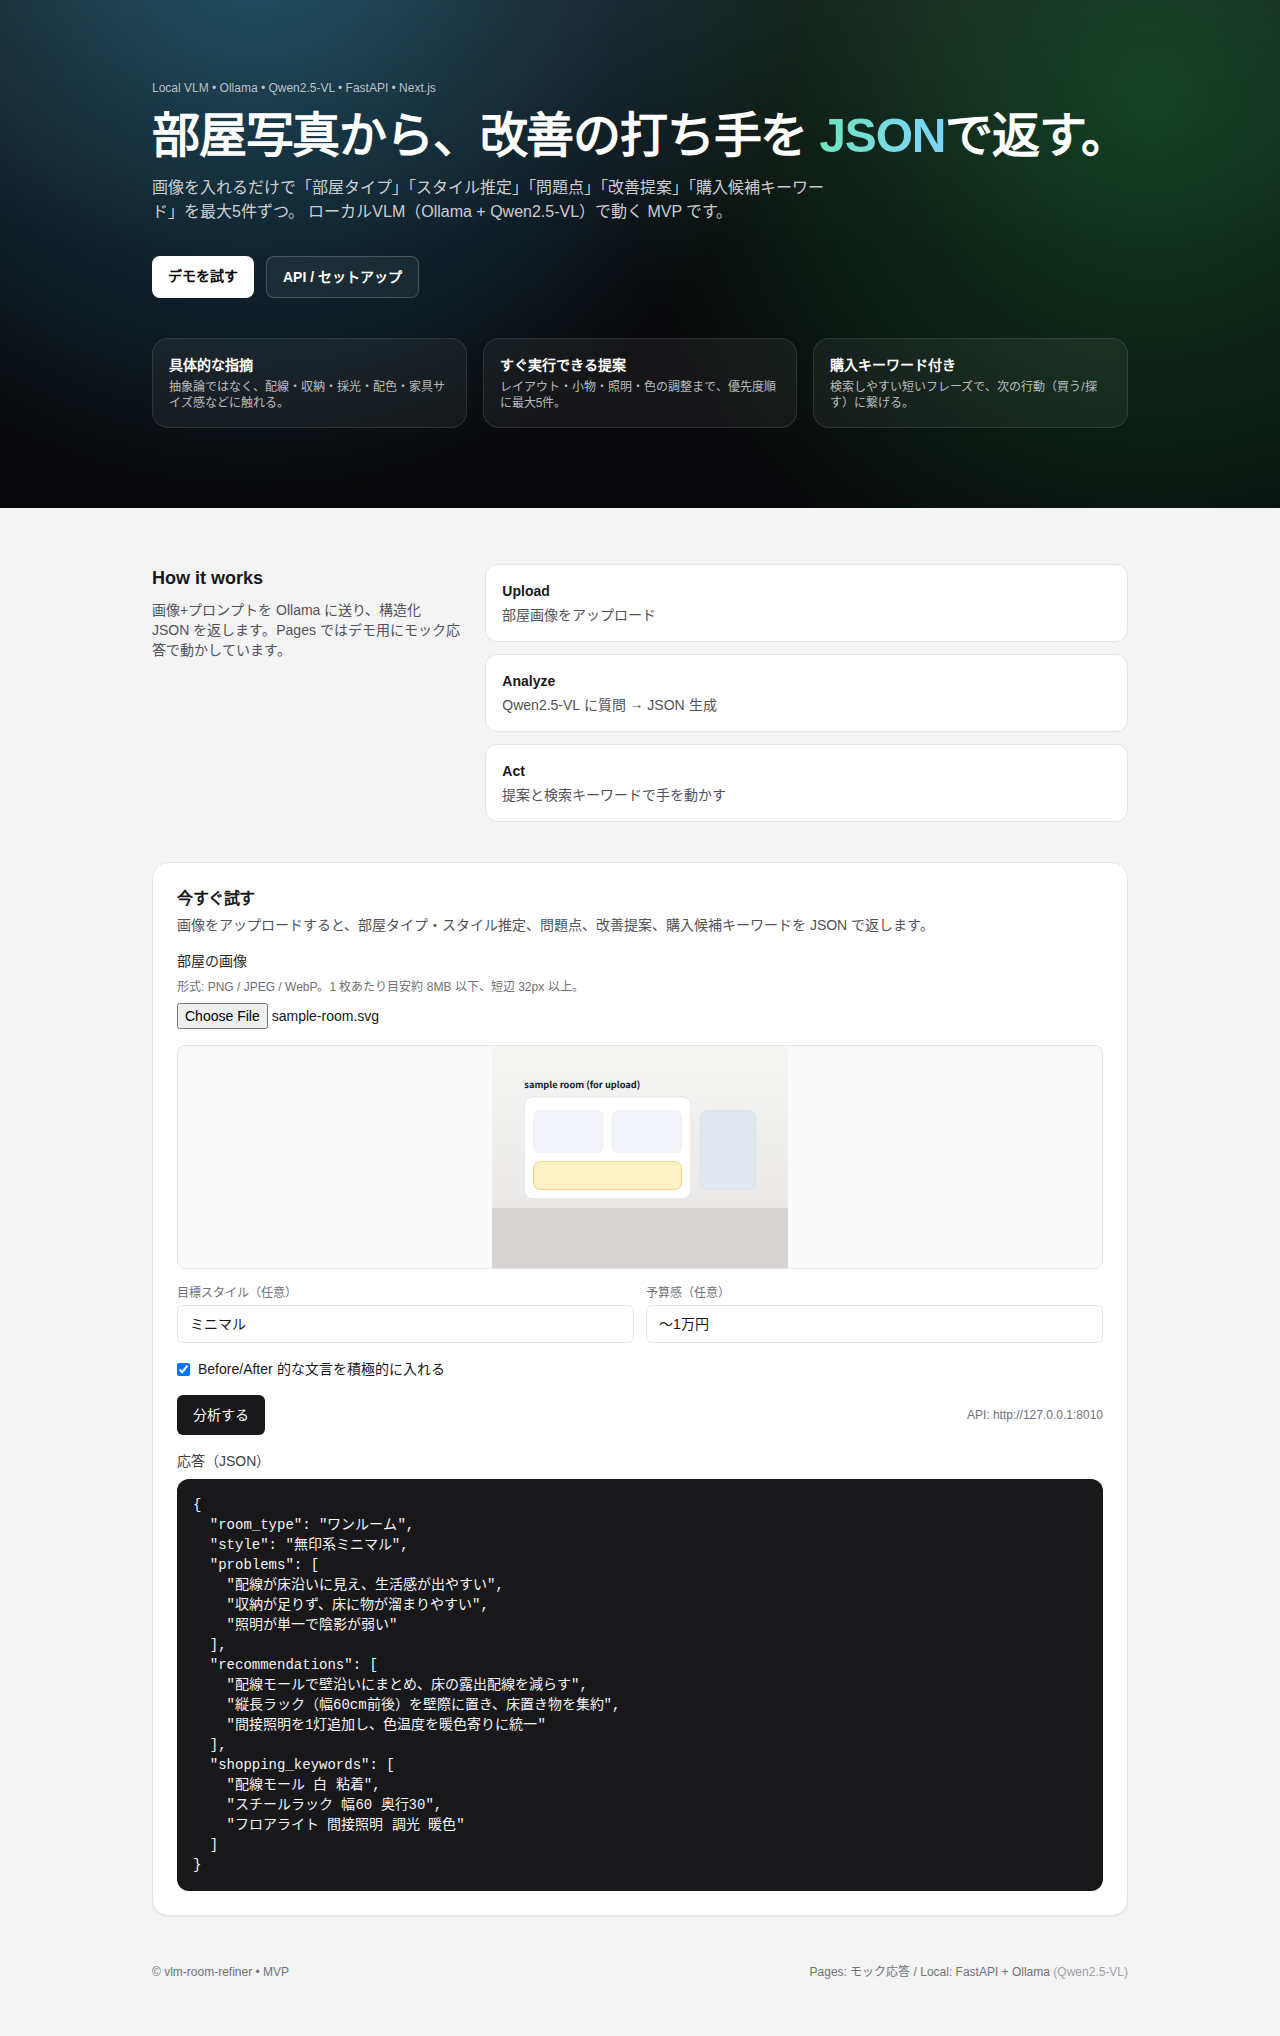
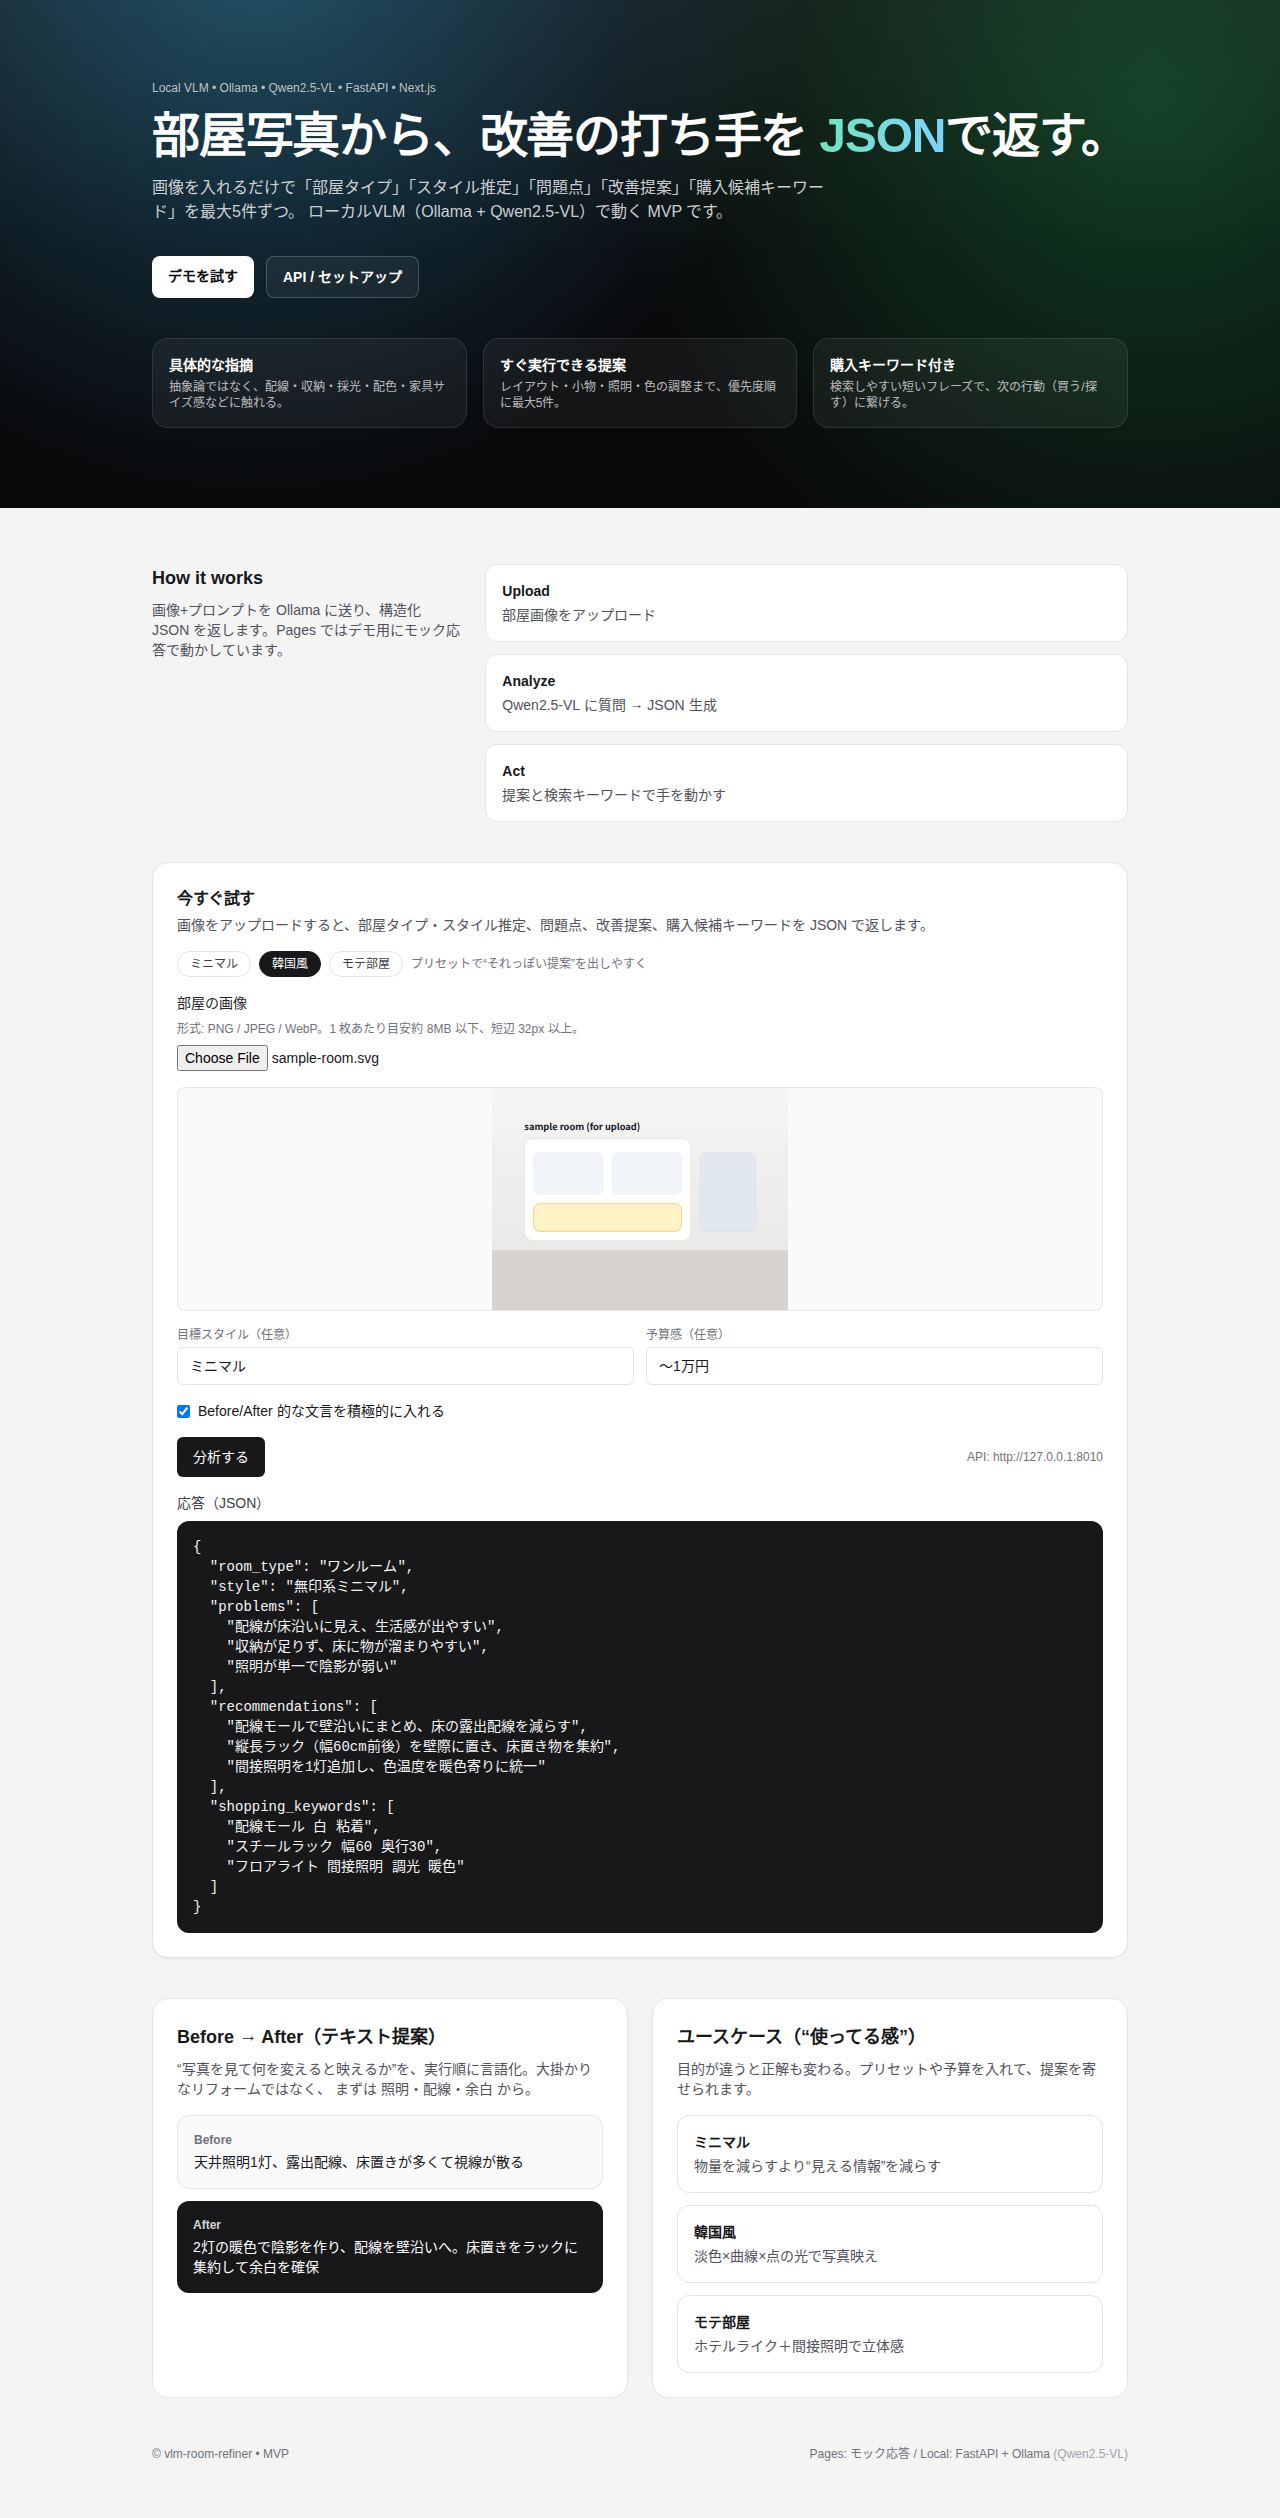
feat: add presets and before/after sections to LP
Made-with: Cursor

diff --git a/frontend/app/page.tsx b/frontend/app/page.tsx
@@ -12,24 +12,72 @@ type Result = Record<string, unknown>;
 
 type ApiError = { status: number; title: string; message: string };
 
-const demoResponse: Result = {
-  room_type: "ワンルーム",
-  style: "無印系ミニマル",
-  problems: [
-    "配線が床沿いに見えて生活感が出やすい",
-    "収納が足りず、床に物が溜まりやすい",
-    "照明が単一で陰影が弱い",
-  ],
-  recommendations: [
-    "配線モールで壁沿いにまとめ、床の露出配線を減らす",
-    "縦長ラック（幅60cm前後）を壁際に置き、床置き物を集約",
-    "間接照明を1灯追加し、色温度を暖色寄りに統一",
-  ],
-  shopping_keywords: [
-    "配線モール 白 粘着",
-    "スチールラック 幅60 奥行30",
-    "フロアライト 間接照明 調光 暖色",
-  ],
+type PresetKey = "minimal" | "korean" | "mote";
+
+const presetLabel: Record<PresetKey, string> = {
+  minimal: "ミニマル",
+  korean: "韓国風",
+  mote: "モテ部屋",
+};
+
+const presetDemo: Record<PresetKey, Result> = {
+  minimal: {
+    room_type: "ワンルーム",
+    style: "無印系ミニマル",
+    problems: [
+      "配線が床沿いに見えて生活感が出やすい",
+      "収納が足りず、床に物が溜まりやすい",
+      "照明が単一で陰影が弱い",
+    ],
+    recommendations: [
+      "配線モールで壁沿いにまとめ、床の露出配線を減らす",
+      "縦長ラック（幅60cm前後）を壁際に置き、床置き物を集約",
+      "間接照明を1灯追加し、色温度を暖色寄りに統一",
+    ],
+    shopping_keywords: [
+      "配線モール 白 粘着",
+      "スチールラック 幅60 奥行30",
+      "フロアライト 間接照明 調光 暖色",
+    ],
+  },
+  korean: {
+    room_type: "ワンルーム",
+    style: "韓国風（淡色×曲線）",
+    problems: [
+      "色が散って統一感が出にくい",
+      "直線的な家具で“柔らかさ”が不足",
+      "照明の演出が弱く写真映えしにくい",
+    ],
+    recommendations: [
+      "ベージュ〜アイボリーでベース色を2色に絞る（小物も同系統へ）",
+      "円形ラグやラウンドミラーで曲線要素を追加する",
+      "シェード付きテーブルライトで“点”の光を作る（暖色）",
+    ],
+    shopping_keywords: [
+      "円形ラグ アイボリー 160cm",
+      "ラウンドミラー 直径50",
+      "テーブルライト シェード 暖色",
+    ],
+  },
+  mote: {
+    room_type: "ワンルーム",
+    style: "モテ部屋（ホテルライク×間接照明）",
+    problems: [
+      "照明が天井1灯のみで立体感が出ない",
+      "ベッド周りに“余白”がなく雑然と見える",
+      "素材感（木/布/金属）のバランスが弱い",
+    ],
+    recommendations: [
+      "フロアライト＋テーブルライトの2灯で陰影を作る（暖色）",
+      "ベッドサイドを“何も置かない面”を1つ作って余白を確保",
+      "木目（オーク）×黒のアクセントを2点だけ入れて締める",
+    ],
+    shopping_keywords: [
+      "フロアライト 間接照明 調光",
+      "サイドテーブル 木目 オーク",
+      "クッションカバー ブラック 45cm",
+    ],
+  },
 };
 
 function prettyJson(v: Result) {
@@ -84,6 +132,7 @@ function parseApiError(
 }
 
 function DemoForm() {
+  const [preset, setPreset] = useState<PresetKey>("minimal");
   const [file, setFile] = useState<File | null>(null);
   const [preview, setPreview] = useState<string | null>(null);
   const [style, setStyle] = useState("");
@@ -125,7 +174,7 @@ function DemoForm() {
     setData(null);
     if (DEMO_MODE) {
       await new Promise((r) => setTimeout(r, 450));
-      setData(demoResponse);
+      setData(presetDemo[preset]);
       setLoading(false);
       return;
     }
@@ -176,6 +225,32 @@ function DemoForm() {
             Demo（モック応答）
           </span>
         )}
+      </div>
+
+      <div className="flex flex-wrap gap-2">
+        {(Object.keys(presetLabel) as PresetKey[]).map((k) => (
+          <button
+            key={k}
+            type="button"
+            onClick={() => {
+              setPreset(k);
+              if (!style.trim()) {
+                setStyle(presetLabel[k]);
+              }
+            }}
+            className={[
+              "rounded-full px-3 py-1 text-xs font-medium border transition",
+              preset === k
+                ? "bg-zinc-900 text-white border-zinc-900"
+                : "bg-white text-zinc-700 border-zinc-200 hover:bg-zinc-50",
+            ].join(" ")}
+          >
+            {presetLabel[k]}
+          </button>
+        ))}
+        <span className="text-xs text-zinc-500 self-center">
+          プリセットで“それっぽい提案”を出しやすく
+        </span>
       </div>
 
       <div>
@@ -384,6 +459,52 @@ export default function Home() {
 
           <section id="demo" className="scroll-mt-16 space-y-4">
             <DemoForm />
+          </section>
+
+          <section className="grid gap-6 md:grid-cols-2">
+            <div className="rounded-2xl border border-zinc-200 bg-white p-6">
+              <h2 className="text-lg font-semibold">Before → After（テキスト提案）</h2>
+              <p className="mt-2 text-sm text-zinc-600">
+                “写真を見て何を変えると映えるか”を、実行順に言語化。大掛かりなリフォームではなく、
+                まずは <span className="font-medium">照明・配線・余白</span> から。
+              </p>
+              <div className="mt-4 grid gap-3">
+                <div className="rounded-xl bg-zinc-50 border border-zinc-200 p-4">
+                  <p className="text-xs font-semibold text-zinc-500">Before</p>
+                  <p className="mt-1 text-sm">
+                    天井照明1灯、露出配線、床置きが多くて視線が散る
+                  </p>
+                </div>
+                <div className="rounded-xl bg-zinc-900 text-white p-4">
+                  <p className="text-xs font-semibold text-zinc-300">After</p>
+                  <p className="mt-1 text-sm">
+                    2灯の暖色で陰影を作り、配線を壁沿いへ。床置きをラックに集約して余白を確保
+                  </p>
+                </div>
+              </div>
+            </div>
+
+            <div className="rounded-2xl border border-zinc-200 bg-white p-6">
+              <h2 className="text-lg font-semibold">ユースケース（“使ってる感”）</h2>
+              <p className="mt-2 text-sm text-zinc-600">
+                目的が違うと正解も変わる。プリセットや予算を入れて、提案を寄せられます。
+              </p>
+              <div className="mt-4 grid gap-3">
+                {[
+                  ["ミニマル", "物量を減らすより“見える情報”を減らす"],
+                  ["韓国風", "淡色×曲線×点の光で写真映え"],
+                  ["モテ部屋", "ホテルライク＋間接照明で立体感"],
+                ].map(([t, d]) => (
+                  <div
+                    key={t}
+                    className="rounded-xl border border-zinc-200 p-4"
+                  >
+                    <p className="text-sm font-semibold">{t}</p>
+                    <p className="mt-1 text-sm text-zinc-600">{d}</p>
+                  </div>
+                ))}
+              </div>
+            </div>
           </section>
 
           <footer className="pt-2 flex flex-col sm:flex-row gap-2 sm:items-center sm:justify-between text-xs text-zinc-500">

diff --git a/e2e/screenshot.spec.ts b/e2e/screenshot.spec.ts
@@ -43,6 +43,9 @@ test("capture real UI screenshot (mocked API)", async ({ page }) => {
   );
   await page.setInputFiles('input[type="file"]', sample);
 
+  // Select preset (optional)
+  await page.getByRole("button", { name: "韓国風" }).click();
+
   await page.getByPlaceholder("例: 韓国風 / ミニマル").fill("ミニマル");
   await page.getByPlaceholder("例: 1万円前後").fill("〜1万円");
   await page
